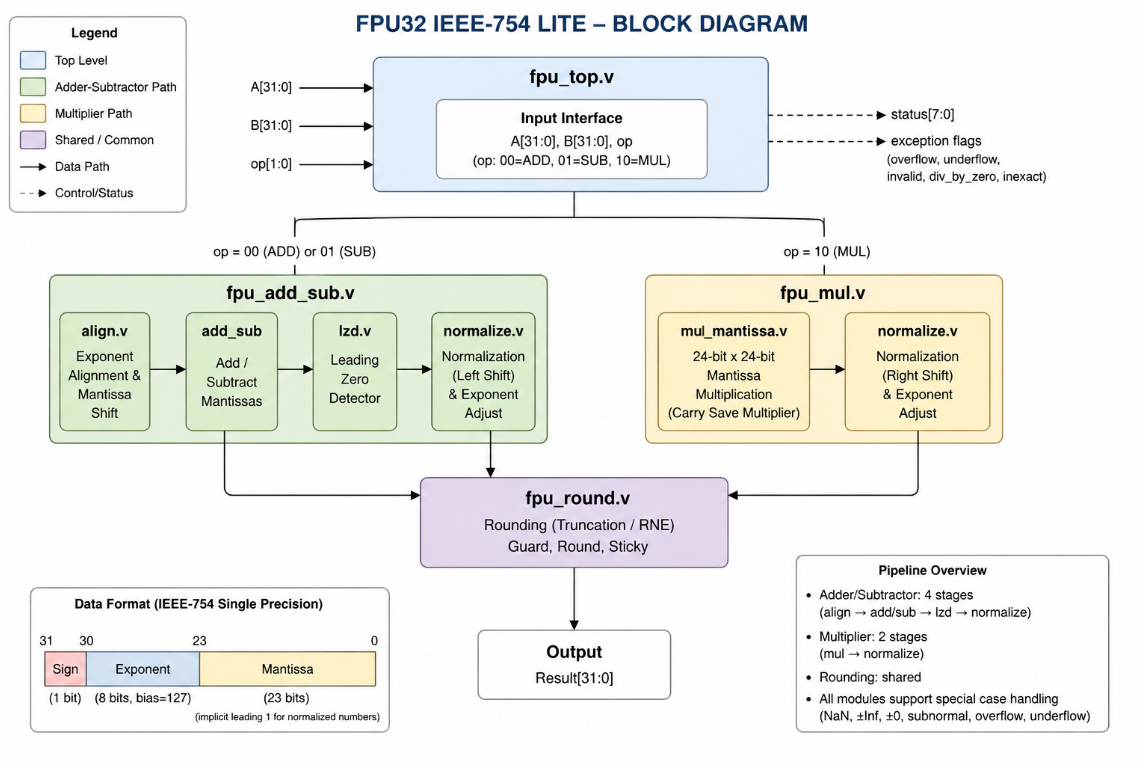
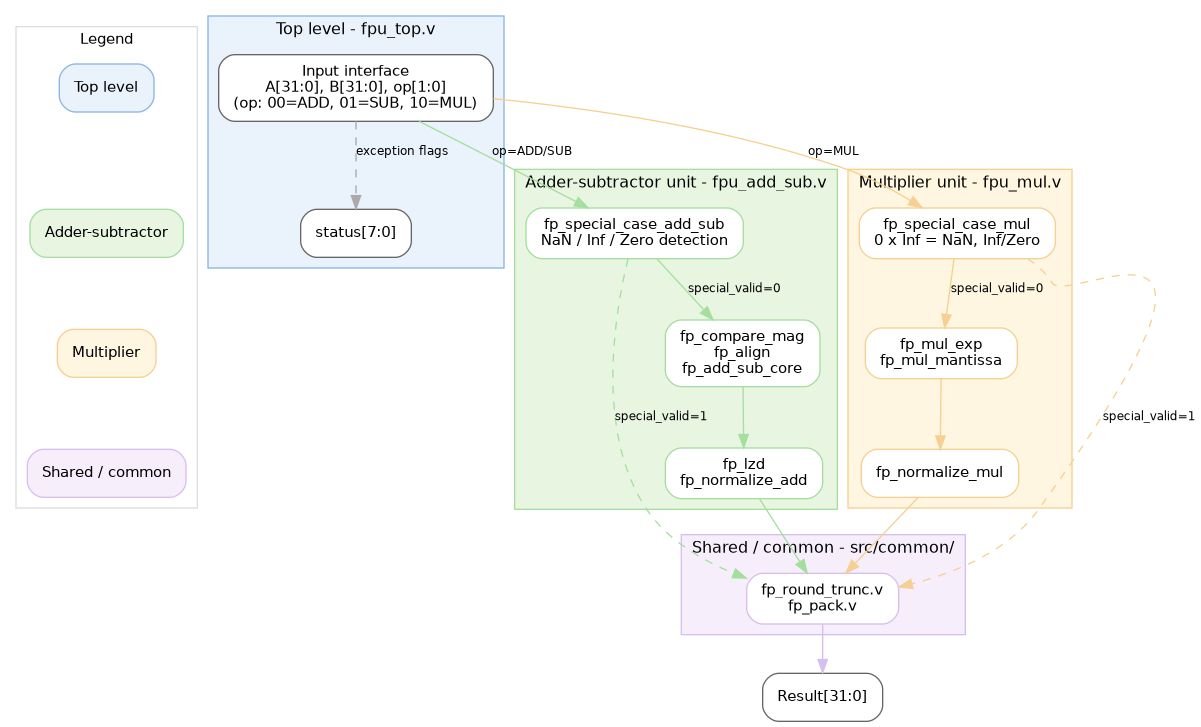
Update README and architecture block diagram

diff --git a/README.md b/README.md
@@ -1,6 +1,6 @@
 # FPU32 IEEE-754 Lite
 
-A lightweight IEEE-754 single-precision floating-point unit implemented in Verilog.
+A modular, pipelined IEEE-754 single-precision floating-point unit implemented in Verilog, targeting the EBAZ4205 FPGA.
 
 This project supports:
 
@@ -8,7 +8,8 @@ This project supports:
 - Floating-point subtraction
 - Floating-point multiplication
 - Normalization
-- Rounding
+- Rounding / truncation
+- Special-case handling (NaN, Infinity, Zero)
 - Overflow and underflow detection
 
 This project is developed as part of an academic digital design course.
@@ -47,16 +48,31 @@ Value = (-1)^Sign × (1.Fraction) × 2^(Exponent − 127)
 
 ## Architecture
 
+### Design Philosophy: Reusable Floating-Point Datapath
+
+The adder-subtractor (`fpu_add_sub.v`) and multiplier (`fpu_mul.v`) are implemented as two independent datapaths — they do not share alignment, arithmetic core, leading-zero-detection, or normalization logic, since these steps differ fundamentally between the two operations (add/sub cancellation may require shifting many bits, while multiplier normalization needs at most a 1-bit shift).
+
+Both datapaths converge at two final, format-defined stages, which are shared:
+
+- `fp_round_trunc.v` — Rounding / truncation (shared)
+- `fp_pack.v` — Result packing into IEEE-754 format (shared)
+
+This is where reuse makes sense: the two units diverge in their early, algorithm-specific stages, then converge at the stages that only depend on the final normalized mantissa and exponent.
+
+### Design Principle: Special-Case Isolation
+
+Special-case handling (NaN, Infinity, Zero, etc.) is kept out of the core datapath modules:
+
+- `fp_align` — performs alignment only, has no awareness of special cases
+- `fp_special_case_add_sub` / `fp_special_case_mul` — handle all IEEE-754 exceptions for each pipeline (note: multiply special cases differ from add/sub, e.g. `0 × ∞ = NaN`, so they live in separate files)
+- `fpu_add_sub.v` / `fpu_mul.v` — top-level modules that route between the normal path and the special-case path
+
 ### Top-Level Architecture
 <p align="center">
   <img src="doc/images/Architecture_Block_Diagram.png" width="900">
 </p>
 
-The FPU consists of two arithmetic units:
-- Floating-point adder-subtractor
-- Floating-point multiplier
-
-Both units share a common rounding module and are integrated through `fpu_top.v`.
+The FPU consists of two independent arithmetic units — a floating-point adder-subtractor and a floating-point multiplier — both built on the shared rounding and packing modules, integrated through `fpu_top.v`.
 
 ### Adder-Subtractor Pipeline
 <p align="center">
@@ -64,15 +80,34 @@ Both units share a common rounding module and are integrated through `fpu_top.v`
 </p>
 
 ```text
-Alignment
-    ↓
-Addition / Subtraction
-    ↓
-Leading Zero Detection
-    ↓
-Normalization
-    ↓
-Rounding
+A, B
+  │
+  ▼
+fp_special_case_add_sub ──── special_valid = 1 ────► Result
+  │
+  ▼
+fp_compare_mag
+  │
+  ▼
+fp_align
+  │
+  ▼
+fp_add_sub_core
+  │
+  ▼
+fp_lzd
+  │
+  ▼
+fp_normalize_add
+  │
+  ▼
+fp_round_trunc   ← Shared
+  │
+  ▼
+fp_pack          ← Shared
+  │
+  ▼
+Result
 ```
 
 ### Multiplier Pipeline
@@ -81,30 +116,80 @@ Rounding
 </p>
 
 ```text
-Mantissa Multiplication
-    ↓
-Normalization
-    ↓
-Rounding
+A, B
+  │
+  ▼
+fp_special_case_mul ──── special_valid = 1 ────► Result
+  │
+  ▼
+fp_mul_exp
+  │
+  ▼
+fp_mul_mantissa
+  │
+  ▼
+fp_normalize_mul
+  │
+  ▼
+fp_round_trunc   ← Shared
+  │
+  ▼
+fp_pack          ← Shared
+  │
+  ▼
+Result
 ```
+
+---
+
+## FPGA Pipeline Evaluation
+
+Both `fpu_add_sub.v` and `fpu_mul.v` are each synthesized in three pipeline configurations — Non-pipeline, 2-stage, and 3-stage — using the same methodology, so results can be compared side by side across both units.
+
+| Unit | Configuration | LUT | FF | Fmax |
+|------|---------------|-----|----|----|
+| Adder-subtractor | Non-pipeline |  |  |   |
+| Adder-subtractor | 2-stage |  |  |   |
+| Adder-subtractor | 3-stage | |  |  |
+| Multiplier | Non-pipeline | |  |  |
+| Multiplier | 2-stage | |  |  |
+| Multiplier | 3-stage |  |  |  |
+
+> Numbers above are illustrative for the adder-subtractor; replace with real synthesis results once available. Multiplier figures are pending — `fpu_mul.v` currently has a fixed 2-stage implementation and needs non-pipeline and 3-stage variants added to complete the comparison.
+
+Expected analysis points:
+- LUT usage increases by ~20% per added pipeline stage
+- FF count increases due to added pipeline registers
+- Fmax increases by nearly 3× from non-pipeline to 3-stage
+- Overall throughput improves significantly with pipelining
+
+Each unit's RTL and pipeline structure remain independent (`fpu_add_sub.v` and `fpu_mul.v` are not merged into a single top module) — only the synthesis results are compared together here.
+
 ## Project Structure
 
 ```text
 src/
+├── common/
+│   ├── fp_round_trunc.v      ✅ Shared
+│   └── fp_pack.v             ✅ Shared
+│
 ├── fpu_add_sub/
-│   ├── align.v
-│   ├── lzd.v
-│   ├── normalize.v
+│   ├── fp_compare_mag.v
+│   ├── fp_align.v
+│   ├── fp_add_sub_core.v
+│   ├── fp_lzd.v
+│   ├── fp_normalize_add.v
+│   ├── fp_special_case_add_sub.v
 │   └── fpu_add_sub.v
 │
 ├── fpu_mul/
-│   ├── mul_mantissa.v
-│   ├── normalize.v
+│   ├── fp_mul_exp.v
+│   ├── fp_mul_mantissa.v
+│   ├── fp_normalize_mul.v
+│   ├── fp_special_case_mul.v
 │   └── fpu_mul.v
 │
-├── fpu_round.v
-├── fpu_top.v
-└── fpu_tb.v
+└── fpu_top.v
 ```
 
 ---